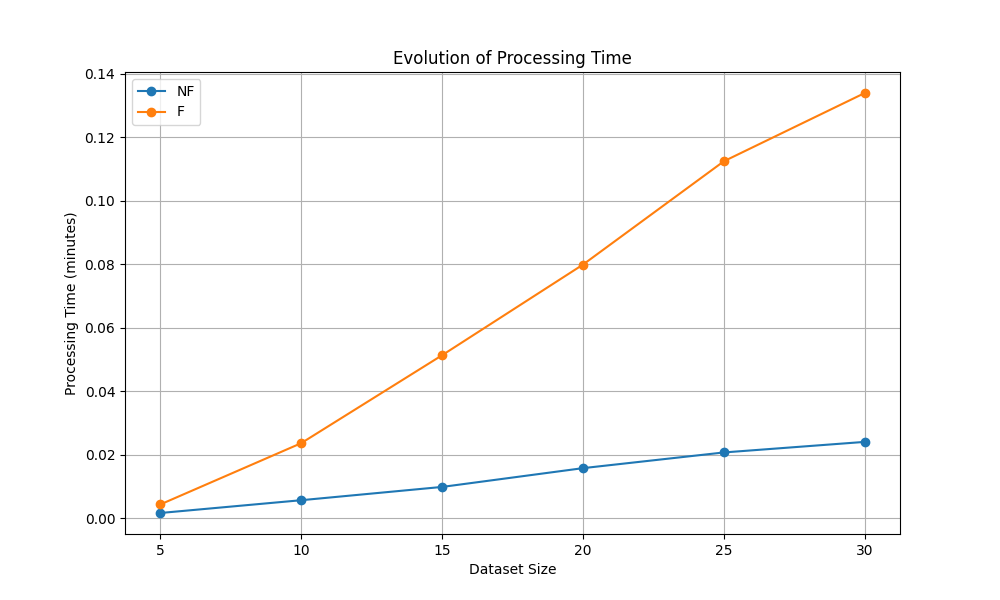
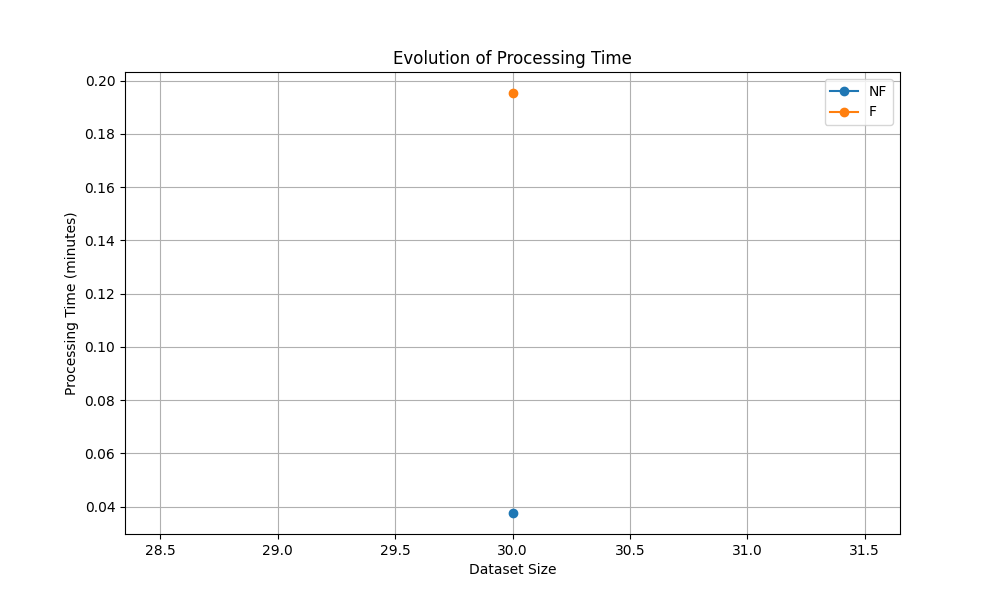
fix min max exp

diff --git a/experminents_results/paper_exeperiments.py b/experminents_results/paper_exeperiments.py
@@ -27,7 +27,7 @@ from dic_values_exp_example_debug import dict_len_motifs_exp_example_debug
 # define a global variable to use debug datasets
 is_debug_datasets_global_var: bool = True
 debug_datasets_size_global_var: list[int] = [5, 10, 15, 20, 25, 30]
-## debug_datasets_size_global_var: list[int] = [30]
+debug_datasets_size_global_var: list[int] = [30]
 dir_main_path_debug_datasets_global_var: str = "datasets/data/Rfam_14.1_dataset/debug_small_Rfam14.1_Sample_Train_Test"
 
 def find_project_root(project_name: str = "LSC-ncRNA") -> Path:
@@ -242,8 +242,8 @@ def deletion_sub_motifs(is_debug_datasets: bool = False) -> None:
                 print(f"Results saved to {csv_path}")
 
                 # Step 10: Clean up the generated CSV file, since it will have big size
-                ## os.remove(result['output_csv_file'])
-                ## print(f"Cleaned up {result['output_csv_file']}")
+                os.remove(result['output_csv_file'])
+                print(f"Cleaned up {result['output_csv_file']}")
 
             except Exception as e:
                 print(
@@ -363,7 +363,9 @@ def run_motif_length_experiments(is_debug_datasets: bool = False) -> None:
     #fixed_lengths: range = range(1, 21)  # for 1 we should use an intern python method to generate the dataset, the method exist already.
     fixed_lengths: range = range(2, 21)  # 2 to 20, fro now from 2. to be changed later, we treat size min max = 1 seperatly.
     # fixed_lengths: list[tuple[int, int]] = [(f-1, f) for f in range(2, 21)]  # (1, 2), (2,3) to (19, 20). we do this since in c++ program it implemented (min_len, max_len) like min_len<max_len begin min, stop before max. so 1,2 mean only one I have to check...
-    combined_lengths: list[tuple[int, int]] = [(2, max_len) for max_len in range(2, 21)]  # (2, 2) to (2, 20)
+    combined_lengths: list[tuple[int, int]] = [(2, max_len) for max_len in range(3, 21)]  # (2, 3) to (2, 20)
+
+    # note: when we have min_len = i, max_len = i+1 ex:(2,3) this mean we have fixed motif len of len 2. (this is in my c++ code work like this, maybe I should take time to change it...)
 
     results: dict[str, dict[int, dict[int | tuple[int, int], dict[str, int | float | str]]]] = {
         'fixed_length': {size: {} for size in dataset_sizes},
@@ -466,9 +468,9 @@ def run_single_experiment(dataset_size: int, min_length: int, max_length: int, i
             output_csv=classification_output_csv
         )
 
-        #print('end classification')
-        #print('classification_output:')
-        #print(classification_output)
+        print('end classification')
+        print('classification_output:')
+        print(classification_output)
         #time.sleep(3)
 
         if "error" in classification_output:
@@ -481,6 +483,7 @@ def run_single_experiment(dataset_size: int, min_length: int, max_length: int, i
                 "training_time_sec": None,
                 "testing_time_sec": None
             }
+            print(' ibra error ibra error')
             continue
 
         # Store the extracted metrics
@@ -492,6 +495,10 @@ def run_single_experiment(dataset_size: int, min_length: int, max_length: int, i
             "training_time_sec": classification_output.get("training_time_sec"),
             "testing_time_sec": classification_output.get("testing_time_sec")
         }
+
+        # Clean up the CSV file that store the classification result. 
+        os.remove(classification_output_csv)
+        print(f"Cleaned up {classification_output_csv}")
 
         print(f"Model: {model} | Accuracy: {classification_results[model]['accuracy']} | "
               f"Training Time: {classification_results[model]['training_time_sec']} sec | "
@@ -510,74 +517,15 @@ def run_single_experiment(dataset_size: int, min_length: int, max_length: int, i
     # Merge classification_results into experiment_results
     experiment_results.update(classification_results)
 
+    # Clean up the generated CSV file (train csv file), since we no longer need it & it will have big size
+    os.remove(result['output_csv_file'])
+    print(f"Cleaned up {result['output_csv_file']}")
+    
+
     print(f"Completed experiment for dataset size {dataset_size}, min_length {min_length}, max_length {max_length}")
 
     return experiment_results 
     
-    """
-    results = {
-    'fixed_length': {
-        50: {
-            1: { EXT: {acc:, f1:, train time:,...}
-            { MLP: {acc:, f1:, train time:,...}
-            },
-            2: { ... },
-            ...
-            20: { ... }
-        },
-        150: {
-            1: { ... },
-            2: { ... },
-            ...
-            20: { ... }
-        },
-        ...
-    },
-    'combined_length': {
-        350: {
-            (2, 2): { ... },
-            (2, 3): { ... },
-            ...
-            (2, 20): { ... }
-        }
-    }
-}
-    """
-    """
-    example:
-    classification_results = {
-    'EXT': {
-        "accuracy": 0.95,
-        "precision": 0.9,
-        "recall": 0.85,
-        "f1_score": 0.87,
-        "training_time_sec": 120,
-        "testing_time_sec": 30,
-    },
-    'MLP': {
-        "accuracy": 0.92,
-        "precision": 0.89,
-        "recall": 0.84,
-        "f1_score": 0.86,
-        "training_time_sec": 110,
-        "testing_time_sec": 25,
-    }
-}
-
-example:
-experiment_results = {
-    "dataset_size": dataset_size,
-    "min_length": min_length,
-    "max_length": max_length,
-    "num_motifs": result.get('num_motifs'),
-    "cpp_execution_time_sec": result.get('execution_time'),
-    "file_size_gb": result.get('file_size_gb'),
-    'EXT': { ... },  # metrics for EXT
-    'MLP': { ... },  # metrics for MLP
-}
-
-    """
-
 
 # -------------------------------------------
 # -------------------------------------------
@@ -827,15 +775,23 @@ def plot_total_time_combined_len(results, save_as_file=True, filename='Total_tim
             lengths.append((min_len, max_len))  # Store as a tuple for sorting
             
             # Calculate total execution time for EXT and MLP
+            print('Calculate total execution time for EXT and MLP')
+            print('data[EXT][training_time_sec] = ', data['EXT']['training_time_sec'])
             cpp_time = data.get('cpp_execution_time_sec', 0)
             ext_training_time = data.get('EXT', {}).get('training_time_sec', 0)
             ext_testing_time = data.get('EXT', {}).get('testing_time_sec', 0)
             mlp_training_time = data.get('MLP', {}).get('training_time_sec', 0)
             mlp_testing_time = data.get('MLP', {}).get('testing_time_sec', 0)
-            
+            print(f'cpp_time : {cpp_time} type : {type(cpp_time)}')
+            print(f'ext_training_time : {ext_training_time} type : {type(ext_training_time)}')
+            print(f'ext_testing_time : {ext_testing_time} type : {type(ext_testing_time)}')
+
+
             ext_total_time = cpp_time + ext_training_time + ext_testing_time
             mlp_total_time = cpp_time + mlp_training_time + mlp_testing_time
             
+            print(f' ext_total_time = {ext_total_time}...')
+
             ext_total_times.append(ext_total_time)
             mlp_total_times.append(mlp_total_time)
         
@@ -1245,20 +1201,20 @@ def main():
     is_debug_datasets: bool = is_debug_datasets_global_var
 
     # unzip already pre-prepared datasets
-    ##prepare_dataset()
+    prepare_dataset()
 
     # compile the c++ code for motifs extraction and selection
-    ## compile_code_MotifsExtractionSelection()
+    compile_code_MotifsExtractionSelection()
     
     # run the sub motifs deletion experiments
-    ## deletion_sub_motifs(is_debug_datasets)
+    deletion_sub_motifs(is_debug_datasets)
     
     # run the motifs length experiments
     print("run the motifs length experiments...")
-    ## run_motif_length_experiments(is_debug_datasets)
+    run_motif_length_experiments(is_debug_datasets)
 
     # debug by internal dict 
-    plot_all_len_motifs_exp(dict_len_motifs_exp_example_debug)
+    ## plot_all_len_motifs_exp(dict_len_motifs_exp_example_debug)
 
 if __name__ == "__main__":
     main()
